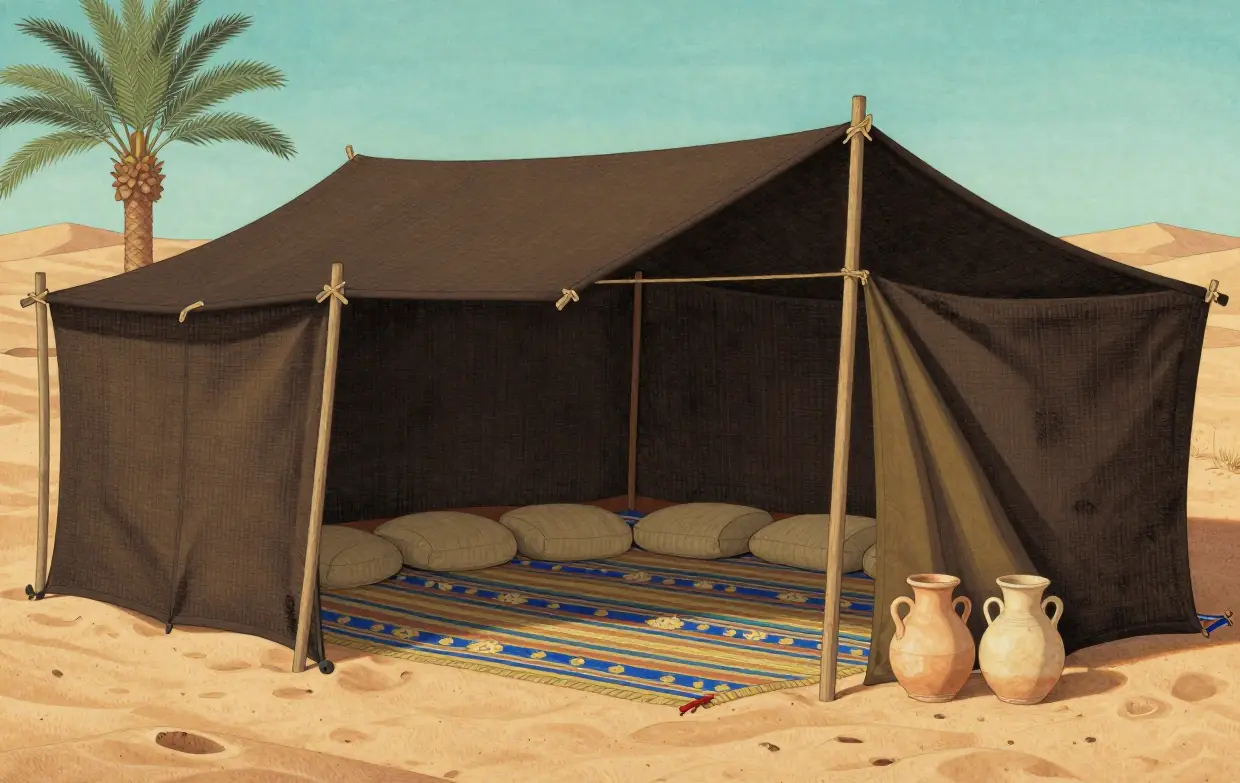
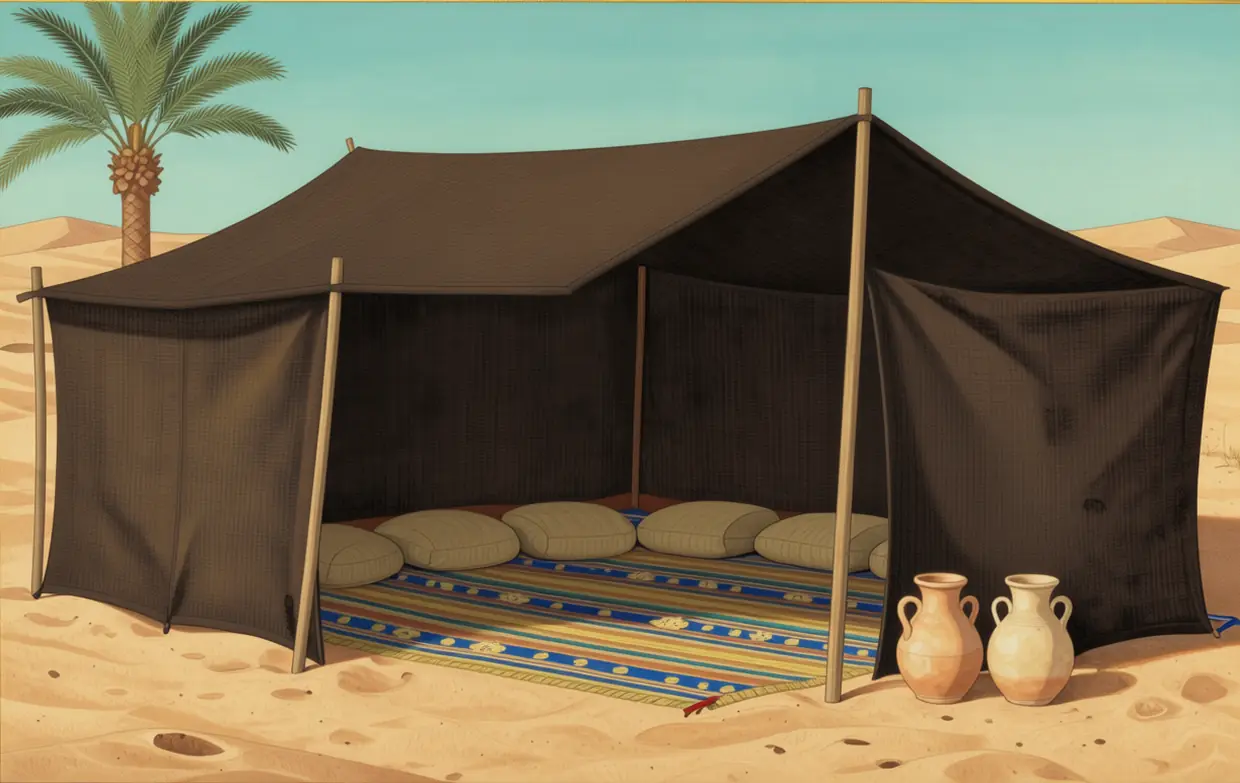
Ibrahim game: apply the scholar's gate 2-3 fixes (new tent plates, one-way time knob)
Both tent plates regenerated: the landscape tent as a recorded Qwen edit that removes
the rope crossing the inner pole; the portrait tent through a new seed and recorded
Qwen edits (plain roof, eave band and curtain; no pole above the band; no corner
writing). The time knob now only moves forward (drag, click and keys tested in EN
and AR), and 'never sets' reads 'never goes away'. Still not linked from the story:
the scholar re-checks the two new plates first.

diff --git a/UI/games/ibrahim/ibrahim.js b/UI/games/ibrahim/ibrahim.js
@@ -34,9 +34,9 @@ const LAYOUT = {
     arc: { rise: [150, 590], top: [620, 135], set: [1090, 590] },
     size: { star: 84, moon: 150, sun: 176 },
     sky: [40, 20, 1200, 520],
-    // plate-tent-land: the household curtain hangs at x 870-1010; the striped mat (the guests' place) is x 320-880,
+    // plate-tent-land (r3): the household hanging is the cloth wall right of the front pole, x 870-1200; the striped mat (the guests' place) is x 320-880,
     // y 540-690. In the tent the ribbon moves to the top (CSS), so the sand at the bottom is free for the dishes.
-    tent: { curtain: [940, 470, 150, 300], dishes: [[760, 778, 210], [520, 776, 170]], near: [600, 610, 290], far: [180, 742, 150], mat: [600, 600, 620, 180] }
+    tent: { curtain: [1000, 460, 170, 300], dishes: [[760, 778, 210], [520, 776, 170]], near: [600, 610, 290], far: [180, 742, 150], mat: [600, 600, 620, 180] }
   },
   port: {
     // phone, measured on plate-night-port (690 x 1278): the far dunes meet the sky at y ~ 950. The narration ribbon
@@ -46,8 +46,8 @@ const LAYOUT = {
     arc: { rise: [110, 965], top: [345, 440], set: [580, 965] },
     size: { star: 80, moon: 150, sun: 170 },
     sky: [40, 240, 650, 900],
-    // plate-tent-port: the household curtain hangs at x 500-640, y 590-1000; the mat is x 50-560, y 880-990
-    tent: { curtain: [548, 800, 110, 330], dishes: [[255, 1190, 200], [480, 1185, 170]], near: [300, 935, 240], far: [130, 1105, 130], mat: [300, 930, 480, 140] }
+    // plate-tent-port (r8): the household curtain hangs at x 465-640, y 600-1000; the mat is x 100-500, y 820-1000
+    tent: { curtain: [552, 800, 130, 330], dishes: [[230, 1190, 200], [450, 1185, 170]], near: [300, 930, 240], far: [515, 1125, 120], mat: [300, 915, 420, 160] }
   }
 };
 let MANIFEST = { aspects: {} };
@@ -94,10 +94,10 @@ const W = {
     ar: 'ها هي مرة أخرى: النجم والقمر والشمس. من خلقها؟ اسحب كل واحد منها إلى الإطار، أو المسه.' },
   placed: { star: { en: 'Allah made the star.', ar: 'الله خلق النجم.' }, moon: { en: 'Allah made the moon.', ar: 'الله خلق القمر.' }, sun: { en: 'Allah made the sun.', ar: 'الله خلق الشمس.' } },
   missFrame: { en: 'Bring it up into the frame.', ar: 'ضعه في الإطار في الأعلى.' },
-  frameDone: { en: 'Allah made them all. Only Allah, who never sets and never sleeps, deserves to be worshipped.',
+  frameDone: { en: 'Allah made them all. Only Allah, who never goes away and never sleeps, deserves to be worshipped.',
     ar: 'الله خلقها كلها. والله وحده، الذي لا يغيب ولا ينام، هو المستحق للعبادة.' },
   pause1Q: { en: 'The sun is so big and bright. Why can it not be our Lord?', ar: 'الشمس كبيرة جداً ومضيئة. لماذا لا يمكن أن تكون ربنا؟' },
-  pause1H: { en: 'Idea: it sets every evening; Allah made it, and Allah never sets or sleeps.', ar: 'فكرة: إنها تغيب كل مساء؛ الله خلقها، والله لا يغيب ولا ينام.' },
+  pause1H: { en: 'Idea: it sets every evening; Allah made it, and Allah never goes away and never sleeps.', ar: 'فكرة: إنها تغيب كل مساء؛ الله خلقها، والله لا يغيب ولا ينام.' },
   toTent: { en: "Next: Ibrahim's guests", ar: 'التالي: ضيوف إبراهيم' },
   tentIntro: { en: 'Ibrahim was known for welcoming guests generously. One day, guests came to his tent and greeted him with "Salam!", peace. How do we answer?',
     ar: 'عُرف إبراهيم بإكرام الضيوف. وفي يوم وصل ضيوف إلى خيمته وقالوا: "سلاماً!" كيف نردّ عليهم؟' },
@@ -421,12 +421,20 @@ bodyEl.addEventListener('click', () => {
   gesture(); S.tapped = true; bodyEl.classList.remove('call'); land(bodyEl); bodyEl.classList.add('lit');
   sfx('good'); Atmos.motes(arcAt(S.u), 4);
   const o = BODIES[S.body]; say(o.tapped);
-  const r = $('#time'); r.value = 0; r.disabled = false; timeLabels(); $('#timebar').hidden = false;
+  const r = $('#time'); r.value = 0; S.kmax = 0; r.disabled = false; timeLabels(); $('#timebar').hidden = false;
   setTimeout(() => r.focus({ preventScroll: true }), 120);
 });
-$('#time').addEventListener('input', e => { gesture(); scrub(+e.target.value / 100); });
+/* scholar gate 3 MUST 1: time only moves on. The knob never goes back below the furthest point reached, so the child can
+   never pull the sun or the moon back up (2:258: none but Allah brings the sun; no creature can bring it back from the
+   west). Any lower value (a drag back, Home, an arrow or Page key) is put straight back to the furthest point. */
+$('#time').addEventListener('input', e => {
+  gesture(); const v = +e.target.value;
+  if (v < (S.kmax || 0)) { e.target.value = S.kmax; return; }
+  S.kmax = v; scrub(v / 100);
+});
+$('#time').addEventListener('keydown', e => { if (['Home', 'PageDown'].includes(e.key) || (!rtl() && ['ArrowLeft', 'ArrowDown'].includes(e.key)) || (rtl() && ['ArrowRight', 'ArrowDown'].includes(e.key))) e.preventDefault(); });
 // letting go near the end finishes the setting (small hands rarely reach the very end of the line)
-$('#time').addEventListener('change', e => { if (+e.target.value >= 85 && !S.setting) { e.target.value = 100; scrub(1); } });
+$('#time').addEventListener('change', e => { if (+e.target.value < (S.kmax || 0)) e.target.value = S.kmax; if (+e.target.value >= 85 && !S.setting) { e.target.value = 100; S.kmax = 100; scrub(1); } });
 function scrub(k) {
   if (!S.body || S.setting) return;
   const o = BODIES[S.body];

diff --git a/UI/scripts/specs/games/ibrahim.py b/UI/scripts/specs/games/ibrahim.py
@@ -264,3 +264,63 @@ ASSETS["bread"].update(seed=seed("bread-r8"),
             "Change only the food: remove the roast and the rice completely. Now the platter holds only one small, "
             "irregular, dry heel of dark brown bread lying on its side near the middle, with a smooth plain crust and no "
             "cuts, marks or lines on it; the rest of the platter is empty and bare."))
+
+# ---------- scholar gate 2b (2026-11-07): both tent plates rejected ----------
+MOTIF_NEG = ("eye motif, evil eye, nazar, concentric lozenge, lozenge with a dot, diamond medallion, medallion, roof "
+             "ornament, crossbar on the pole, rail across the pole, frame rails, script, inscription, script-like marks, "
+             "border pattern, fringe, hem pattern, footprints, paired dents")
+# The approved source of the landscape edit: the r2 render (seed 126676) kept as an input only (never shipped).
+ASSETS["plate-tent-land-src126676"] = dict(kind="derived", w=1344, h=896,
+    prompt="(input only: the r2 tent render, seed 126676, whose rope crosses the inner back pole; see below)")
+# r3 (scholar 2b MUST 2): in seed 126676 the guy rope from the roof-corner knot runs THROUGH the inner back pole at about
+# x 635, y 275 and the pole rises ~8 px above it: a small cross. Regenerated as a recorded Qwen edit of that render that
+# removes the rope (the scholar allowed this in place of a new seed); everything else is kept.
+ASSETS["plate-tent-land"] = dict(kind="edit", w=1344, h=896, source="plate-tent-land-src126676", seed=seed("plate-tent-land-r3"),
+    neg_extra=NO_BODIES + ", " + TENT_NEG + ", " + MOTIF_NEG,
+    prompt=("Keep the exact same tent, palm, mat, cushions, clay pots, sand, sky, colours, style and gold border. Remove "
+            "every rope and cord stretched between the poles under the roof: no line crosses or touches any pole. Each "
+            "pole is one plain straight upright pole with nothing across it and nothing tied to it. Change nothing else."))
+# r5 (scholar 2b MUST 1): seed 1120183 had two stacked concentric blue lozenges on the roof, the upper with a round
+# "pupil" (the nazar / evil-eye form, 3b.2-3), an inner centre pole crossed by a frame rail and rising above it (3b.3),
+# and a column of script-like marks on the curtain band and a looped hem (3b.4). New seed, plain roof and curtain.
+ASSETS["plate-tent-port"].update(seed=seed("plate-tent-port-r5"),
+    neg_extra=NO_BODIES + ", " + TENT_NEG + ", " + MOTIF_NEG + ", rails, frame inside the tent, grid",
+    prompt=(TENT_TALL + ", the tent roof is plain dark woven cloth with no medallion, no diamond and no motif, the curtain "
+            "is plain undyed cloth with no border, no fringe and no pattern on its hem, the inside of the tent is lined "
+            "with plain dark cloth so no poles, frame or rails show inside, the front is held up by two plain straight "
+            "upright poles only, no ropes, the sand in front is smooth, clean and completely unmarked, "
+            "no writing in any corner"))
+# r6: the r5 render (seed 1400481) fixed the inside (no poles or rails) but again put a concentric diamond medallion on
+# the roof (3b.2), a band of small X marks along the eave (3b.3), a striped fringe on the curtain hem, and a pseudo-
+# signature in the bottom-right corner (3b.4). Z-Image ignores these negatives, so r6 is a recorded Qwen edit of that
+# render (as the scholar allowed for the landscape tent) that only takes the ornaments and the corner writing away.
+ASSETS["plate-tent-port-src1400481"] = dict(kind="derived", w=768, h=1408,
+    prompt="(input only: the r5 tent render, seed 1400481; rejected as it stands, see below)")
+ASSETS["plate-tent-port"] = dict(kind="edit", w=768, h=1408, source="plate-tent-port-src1400481", seed=seed("plate-tent-port-r6"),
+    neg_extra=NO_BODIES + ", " + TENT_NEG + ", " + MOTIF_NEG,
+    prompt=("Keep the exact same tent shape, poles, palm, cushions, striped floor mat, clay pots, sand, sky, colours, style "
+            "and gold border. Make the whole tent roof plain dark woven cloth: remove the diamond on the roof completely. "
+            "Make the band along the edge of the roof plain dark cloth with no pattern and no marks. Make the curtain plain "
+            "undyed cloth with no striped edge and no fringe. Remove the small writing in the bottom-right corner, so the "
+            "corner is plain sand. Change nothing else."))
+# r7: the r6 edit (seed 761115) is clean (plain roof, plain band, plain curtain, no writing), but at both front poles
+# the eave band crosses the pole and the pole top rises ~30 px above it (the Musa rule: the stem never rises above the
+# bar, 3b.3), and small white cord loops hang beside the poles (a glyph-like shape at play size, 3b.4 when in doubt).
+# r7 edits r6 once more: the poles end under the band, and the loops go.
+ASSETS["plate-tent-port-src761115"] = dict(kind="derived", w=768, h=1408,
+    prompt="(input only: the r6 edit, seed 761115; rejected as it stands, see below)")
+ASSETS["plate-tent-port"] = dict(kind="edit", w=768, h=1408, source="plate-tent-port-src761115", seed=seed("plate-tent-port-r7"),
+    neg_extra=NO_BODIES + ", " + TENT_NEG + ", " + MOTIF_NEG + ", pole above the band, pole tip, finial, hanging cords, loops",
+    prompt=("Keep the exact same picture: the tent, the plain roof, the plain turquoise band along the eave, the curtain, "
+            "the cushions, the floor mat, the clay pots, the palm, the sand, the sky, the colours, the style and the gold "
+            "border. Change only the two front poles: each pole now stops just under the turquoise band and does not rise "
+            "above it, and there are no cords, loops or ties hanging beside the poles. The two long guy ropes going down "
+            "to the sand at the sides stay. Change nothing else."))
+# r8: the r7 edit (seed 178573) washed the sky and the sand to flat cream and turned both front poles into columns of
+# blue chevrons and lozenges (3b.2-3 risk, and off-composition). Rejected. r8 edits r6 again with a single, narrow change.
+ASSETS["plate-tent-port"].update(seed=seed("plate-tent-port-r8"),
+    neg_extra=NO_BODIES + ", " + TENT_NEG + ", " + MOTIF_NEG + ", pole above the band, pole tip, finial, columns, pillars, chevrons, cream sky, blank background",
+    prompt=("Keep everything exactly as it is: the turquoise sky, the palm, the dark tent, the plain turquoise band, the "
+            "curtain, the cushions, the mat, the clay pots, the golden sand and the gold border. Make only one small change: "
+            "the two plain wooden front poles are a little shorter, so each pole ends at the lower edge of the turquoise "
+            "band and nothing of the pole shows above the band. The poles stay plain round wood."))

diff --git a/UI/scripts/specs/games/ibrahim_export.py b/UI/scripts/specs/games/ibrahim_export.py
@@ -94,6 +94,9 @@ def plates(raw: Path, out: Path, man: dict):
                 im = crop_plate(im, comp)
                 if st == "night":
                     night = im
+                if st == "tent":   # the tent edits redraw a blue-and-gold rule a little inside the found frame: trim it
+                    e = round(min(im.size) * 0.018)
+                    im = im.crop((e, e, im.width - e, im.height - e))
             tw = PLATE_W[comp]
             if comp in man["world"]:
                 tw, th = man["world"][comp]

diff --git a/claudeteam/reviews/game-ibrahim-stars.md b/claudeteam/reviews/game-ibrahim-stars.md
@@ -160,3 +160,191 @@ plate), `review-{tab,phone}-{en,ar}.png` (all stages), `kb-*.png`.
 2. The "Created by Allah" cartouche holds the star, the moon and the sun as tokens; it sits in the HUD, not the sky.
 3. The night that falls again at the end, with "Allah made them all, and Allah is always with us, hearing and seeing."
 4. The crust tray is the same platter with one dry crust (both dishes look alike except for the food).
+
+## Scholar gates 2-3 (2026-11)
+`islamic-content-scholar`, 2026-11-07, on `main` at e466bda. Read-only review; no game file was edited.
+
+**Summary.** Gate 1 is confirmed closed. 2a (prompts): **PASS**. 2b (images): **PASS WITH FIXES**, because both
+tent plates must be regenerated. 3 (build): **PASS WITH FIXES**, because the time knob must only go forward.
+**Linking: not yet.** Link it from the end of the Ibrahim story once the three MUST fixes below are applied and I have
+re-checked the two new tent plates in context. The page is reachable by URL but linked from nowhere, so it does not
+need to be taken down in the meantime.
+
+### Gate 1: confirmed (all rulings hold in the painted build)
+- **Factual questions only.** Every question asks "Did it stay with us all the time?" with "No, it went away" / "Yes, it
+  stayed" (`UI/games/ibrahim/ibrahim.js:64-65, 74-75, 84-85`). No option says a star, the moon or the sun is a Lord. The
+  "Yes" answer replays the setting (`ibrahim.js:464-470`). The reasoning is narration only (`:67, :77`).
+- **Ibrahim is teaching his people.** "Prophet Ibrahim wanted to teach his people who the true Lord is" (`:58`),
+  "Ibrahim showed his people: something that goes away cannot be our Lord" (`:67`), "Ibrahim was showing his people"
+  (`:77`). The words "this is my lord" / «هذا ربي» appear nowhere in the strings: grep finds them only in code comments,
+  and the only «ربي» hit is inside «عربي».
+- **No faces on the sky bodies.** The sun and moon sprites are plain discs (checked at 100% on light and dark grounds).
+  The star is a DOM glow with no rays and no ring.
+- **The guests follow 51:25-27 and 11:69 only:** peace answered with peace (`:102-105`), «فراغ إلى أهله» as "went quickly and
+  quietly to his household" (`:106`), "a fat, roasted calf" (`:110`, عجل سمين / حنيذ), brought near (`:113`), "Please,
+  won't you eat?" (`:116`).
+- **The angels line for the grown-up** is present (`:121-122`). The food is never shown eaten: the tray stays whole and is
+  hidden at nightfall (`:606`).
+- **No water step** in the story. Water appears only in the parent-pause idea for *our own* guests (`:124`), which gate 1
+  allowed.
+- **Omitted as ruled:** idols, fire and the Ka'bah are not drawn. The Ka'bah appears only in words, in the dua's kicker
+  copied from the story page.
+
+### Re-checks (my own measurements)
+- **Dua 2:127, its meaning and its note:** byte-identical to `UI/story-prophet-ibrahim.html:307-309` (Python substring
+  check on the Arabic, the EN and AR meaning lines, and the EN and AR kicker). Against `api.alquran.cloud`
+  `2:127/quran-simple`, the normalised letters «ربنا تقبل منا انك انت السميع العليم» are an exact run of the ayah. The
+  diacritised text differs in only two places: no sukun on «أَنتَ» and no waqf sign ۖ. That is the site's convention
+  on the story page, not an error.
+- **The two page sentences** (`IBR_SHOWED`, `IBR_DECLARE`, EN and AR) are byte-identical to
+  `story-prophet-ibrahim.html:173` and `:164` (`ibrahim-stars.html:113`).
+- **No recitation.** I ran `verify-no-recitation.py --transcripts` on 228 strings extracted from `ibrahim.js` and
+  `ibrahim-stars.html` plus the six Whisper transcripts. It flagged one line, the on-screen dua itself (2:127), which is
+  displayed and never voiced. The game has no `speechSynthesis` or `speak(` call, and its only audio is
+  `slide-{1,2,3}.mp3` (`:136-138, :218`). Slides 6 and 9 are never used.
+- **The three narration cuts fall inside pauses.** I ran ffmpeg silencedetect (-35 dB, 0.15 s) on the shipped mp3s:
+
+  | Clip | Cut (s) | Pause the edge falls in (s) |
+  |---|---|---|
+  | EN slide 1 | 0-3.60 | end in 3.29-4.03 |
+  | AR slide 1 | 0-3.63 | end in 3.51-3.76 |
+  | EN slide 2 | 9.50-14.45 | start in 9.23-9.78; end in 14.33-14.56 (file end) |
+  | AR slide 2 | 9.10-13.60 | start in 8.85-9.37; end in 13.48-13.77 (file end) |
+  | EN slide 3 | 9.85-16.80 | start in 9.57-10.15; end in 16.67-16.93 (file end) |
+  | AR slide 3 | 9.20-16.50 | start in 8.88-9.49; end in 16.38-16.65 (file end) |
+
+  Re-cutting the shipped mp3s at these times reproduces the Whisper clips sample for sample (correlation 1.000, lag 0).
+  The cut edges read -54 to -99 dBFS. The only exception is the head of slide 1, which is the start of the file. Whisper
+  heard only the intended sentence each time. "Is this my lord?" (EN slide 1 about 7-8 s), "This is my lord!"
+  (slide 2 about 3-4 s) and "This is my lord - it's the biggest!" (slide 3 about 1.5-3 s) all lie outside every cut.
+- **Sounds off is silent.** In `audio-trace.json`: sound on reads -43 to -46 dBFS. 0.3 s after Sounds off it reads -67/-79
+  (inside the 0.25 s ramp), and the context is already `suspended`. From 1 to 7 s after, all twelve readings are -inf with
+  the context `suspended`. In a quiet moment with the wind at 0 and the context `running`, all twelve readings are
+  -inf. Code: the master ramps to 0 and the context is suspended (`ibrahim.js:192-196`), and the Sounds-off click also stops
+  Baba's clip (`:654`), which plays outside the Web Audio master.
+
+### 2a, prompts: PASS
+`UI/scripts/specs/games/ibrahim.py` and `game-ibrahim-art.md` meet every item of 3a:
+- Things only: desert, houses, tent, mat, cushions, pots, platter, bread, and the sun disc.
+- No light is written as divine.
+- `STYLE`/`NEGATIVE` are imported unchanged, with the full 3a.3 game list.
+- The Ibrahim bans are in every negative: guests, place settings, idols, statues, ziggurat, altar, fire, axe, and face
+  and eyes for every asset.
+- No Ka'bah, mushaf or text is prompted.
+- Every prompt, seed and reroll is recorded.
+
+The rerolls for the tents should add the motif bans listed under 2b.
+
+### 2b, images: PASS WITH FIXES (10 of 12 approved, 2 to regenerate)
+Approved: `plate-{night,morning,evening}-{land,port}`, `sun`, `moon`, `platter`, `bread`. In the town houses, every
+doorway is plain light with no figure; I zoomed the night-port arched doorway to check. The skies contain only dot stars.
+
+1. **MUST: regenerate `plate-tent-port` (seed 1120183).**
+   - (a) The roof carries two stacked concentric blue lozenges (around x 345, y 490-600). The upper one has a round
+     turquoise "pupil" in a pale centre. That is the blue nazar / evil-eye form (3b.2, 3b.3), the same reading as the
+     rejected bread 471110 ("blue almond with a dot"). On the phone it sits at the centre of every guest frame.
+   - (b) The tent's inner centre pole (x around 346) is crossed by a frame rail at y around 686 and rises about 50 px above
+     it to the hem: a cross (3b.3). This is the failure that rejected 1034882, and it is visible at phone size
+     (`shots/phone-en-08-tent-greet.png`, around x 195, y 440).
+   - (c) The vertical band at the curtain's edge (x 615-640, y 640-960) is a column of small script-like marks, and the
+     hem has a row of looped strokes (3b.4, when in doubt).
+   - Add to the reroll prompt: plain roof with no medallion, diamond or motif; plain curtain with no border, fringe or hem
+     pattern; no frame or rails visible inside. Keep the sand plain. Some of the current dents in front of the tent pair
+     up.
+2. **MUST: regenerate `plate-tent-land` (seed 126676).**
+   - The rope that runs from the roof-corner knot (x around 567, y 298) to the front pole passes *through* the inner back
+     pole (x around 635, y around 275). That pole rises about 8 px above the rope, and the rope continues about 40 px to
+     its left: a small Latin cross at 100% (zoom: around x 600-660, y 260-300). It is low-contrast at tablet size, but
+     it fails the Musa standard ("the stem never rises above the bar") and repeats the reject 1358775 (a crossbar at the
+     top of a pole).
+   - A recorded Qwen edit that removes the rope and keeps the poles plain is acceptable in place of a new seed, as was
+     done for the bread. Either way it is a new render, not a retouch.
+3. **Designer Q1, the front pole:** the rope ending at the tall front pole, with the pole rising above it, is a side bar
+   (⊣), not a cross. Acceptable. The X-wrapped lashings at the pole tops are ordinary knots and also acceptable. The
+   problem is the inner pole (item 2).
+4. **Designer Q2, sand dents:** acceptable in `plate-tent-land`. The hollows are single and irregular, with no pairs and
+   no sole shapes. The portrait plate is being redone anyway.
+5. **Designer Q3, platter rim lozenges:** acceptable. They are a repeated band of small lozenges, i.e. ornament, as
+   approved on Nuh's cloths. This is the difference from item 1(a), which is one large concentric blue lozenge with a
+   round pupil at the centre of the scene.
+6. **Designer Q4, the derived moon:** approved. A plain, featureless ivory disc in the same hand as the sun is better than
+   either rejected render. No SVG is needed.
+7. Note (no fix): the roast reads as a generic whole roast rather than obviously a calf. The label "A fat, roasted calf"
+   carries the meaning, and nothing on the platter is wrong.
+
+Sign-off line: `Art gate: prompts reviewed 2026-11-07 (scholar); contact sheet reviewed 2026-11-07 (scholar) - 10
+sprites approved, 2 rejected (plate-tent-port, plate-tent-land) to regenerate and re-review.`
+
+### 3, build: PASS WITH FIXES
+1. **MUST: the time knob must only go forward** (designer Q1, re-judged in the painted build).
+   - `ibrahim.js:427-433` maps every `input` value straight to the body's position (`S.u = lerp(o.u0, 1, k)`). So
+     until the light has fully set, the child can drag the sun back up into the evening sky (and the sky plate back to
+     morning), or press Home to do the same.
+   - In this game of all games that matters. Ibrahim's own argument in 2:258 is «فإن الله يأتي بالشمس من المشرق فأت بها
+     من المغرب»: no creature can bring the sun back from the west.
+   - Watching time pass is acceptable, and I keep my approval of the slider from mockup 04: the knob is a clock, it is
+     away from the sun, and its labels and narration name the time ("let the day pass"). The child pulling the sun back
+     is not acceptable.
+   - Fix: clamp the knob so its value never decreases within a light (keep the highest value reached, and ignore lower
+     values, including Home). Then the knob can only let time move on.
+2. **SHOULD: "never sets" becomes "never goes away"** in EN `frameDone` (`:97`) and `pause1H` (`:100`). Negating
+   "sets" of Allah still describes Him in the terms of a sky body. "Never goes away" is the approved gate-1 wording and
+   matches 7:7 «وما كنا غائبين». The AR «لا يغيب» is right as it is.
+3. **Designer Q2, the "Created by Allah" panel:** approved. It sorts the three lights as creations, it sits in the HUD
+   and not in the sky, and «خلقها الله» / "Allah made the star." (`:95`) is sound. Nothing is placed on a floor or shown as
+   honoured.
+4. **Designer Q3, the closing night line** (`:125-126`): approved. "Allah is always with us, hearing and seeing" follows
+   20:46 «إنني معكما أسمع وأرى» and avoids "everywhere".
+5. **Designer Q4, the crust on the same platter:** approved. The two dishes differ only in the food, which is the lesson.
+   A wobble on bread is fine; the no-wobble rule is for sacred things only.
+6. Checked and approved:
+   - Adab: "Prophet Ibrahim" / «النبي إبراهيم عليه السلام» at first mention (`:58-59`).
+   - The wrong options ("Who are you? Go away.", "Eat it now!") are what *we* might say, never attributed to Ibrahim,
+     and each is corrected with what he did.
+   - «ألا تأكلون» in the invitation chip is a short spoken phrase, not presented as an ayah and never voiced.
+   - The angels line matches 11:69 «بالبشرى» and 51:28.
+   - The eight beads mark progress, not deeds.
+   - There is no music: the chimes are 659/988 and 523/784 Hz.
+   - The shamsa is the one approved on Nuh.
+
+### Linking verdict
+**Do not link yet.** Link it from the end of `story-prophet-ibrahim.html` when all of these are done:
+1. Both tent plates are regenerated (2b items 1-2), and I have re-checked the new plates at 100% and in context at both
+   sizes and mirrored.
+2. The one-way knob is applied (3.1). The designer can verify it; I will confirm from the diff.
+3. The "never sets" wording is changed (3.2). This one is a SHOULD and does not block linking.
+
+## Fixes after gates 2-3
+`kids-game-designer`, 2026-11-07, on top of e466bda.
+
+| Item | Fix |
+|---|---|
+| 2b MUST 1: `plate-tent-port` (1120183): nazar-like lozenge, rail across the inner pole, script-like marks | Regenerated. A new Z-Image seed with the motif bans added (r5, 1400481) still painted a roof medallion, a band of X marks and a corner signature, so the shipped plate is a recorded chain of Qwen edits of r5: r6 (761115) removed the ornaments and the writing; r7 (178573) was rejected (flat cream sky, chevron columns); **r8 (615708) is shipped**. The roof is plain, the eave band is plain turquoise, the curtain is plain, and no pole shows above or across the band (the r6 poles rose ~30 px above the band, so r8 takes them away). Inside there is no frame or rail. The sand has single, irregular dents only. Every input, prompt and seed is in `ibrahim.py`; the record is in `game-ibrahim-art.md`. |
+| 2b MUST 2: `plate-tent-land` (126676): rope through the inner back pole | Regenerated as a recorded Qwen edit of 126676 (**310210**, shipped): every rope under the roof is gone, and each pole is a plain upright with nothing across it. The front poles still meet the sloping roof cloth (the side-bar case accepted in 2b Q1). The household hanging is now the dark cloth wall right of the front pole; the hotspot moved onto it. The export trims the thin rule the edit drew inside the frame. |
+| 3 MUST 1: the time knob only goes forward | `ibrahim.js`: the knob keeps the furthest value reached in the current light (`S.kmax`). Any lower value from a drag back, a click near the start, Home, PageDown or a backwards arrow is put straight back to it, and Home, PageDown and the backwards arrows (Left/Down in EN, Right/Down in AR) are ignored. It is still a native range input with its label and `aria-valuetext`. |
+| 3 SHOULD 2: "never sets" | EN `frameDone` and `pause1H` now say "never goes away" ("Only Allah, who never goes away and never sleeps, deserves to be worshipped."; "...and Allah never goes away and never sleeps."). The AR «لا يغيب» is unchanged. |
+| Layout | The tent hotspots and places were re-measured on both new plates; on the phone the far corner moved to the end side so it never sits under the tray. |
+
+**Proof that the knob cannot go backwards** (`fixes/knob-test.json`, headless, EN and AR at 1180x820): drag forward to
+60% (value 60, the star's arc position u 0.768), then drag back to 10% while still holding (value 60, u 0.768), release
+(60), then Home, Left, Down, PageDown (and Right in AR): every one leaves the value at 60 or 65 and u unchanged or
+higher; Up moves it forward (70); a click near the start of the track leaves it at 70. `never_backwards: true` in
+both languages (no step ever lowered the value or the position of the light).
+
+**Checks after the fixes:** rebuilt with `_src/build.py`; `node --check`. Play-throughs EN and AR, tablet and phone
+(motion on), and keyboard-only (tablet EN, phone AR): all complete, no console errors, no page scroll, no request
+outside localhost; the keyboard runs end on "Play together again". All six verifiers pass; the scripture diff passes;
+no "never sets" left. Art now 12 images, 358 KB.
+
+**Screenshots for the scholar's re-check** (`/private/tmp/claude-501/-Users-hishamabuella-Work-Interactive-Islamic-kids-website/e8e68c51-18d1-4a2c-bedb-40bde535d502/scratchpad/ibrahim-game/fixes/`):
+- The new tents in the guests round, tablet and phone, EN and AR (AR is the mirrored scene):
+  `{tab,phone}-{en,ar}-08-tent-greet.png`, `-09-curtain.png`, `-10-food.png`, `-11-carry.png`, `-12-invite.png`,
+  `-13-angels.png`, `-14-pause2.png`.
+- The rest of the round: `{tab,phone}-{en,ar}-01-start.png` ... `-16-end.png`; overview strips `review-{tab,phone}-{en,ar}.png`; `beside-*.png`.
+- The plates at full size: `UI/images/games/ibrahim/plate-tent-{land,port}.webp`, and the contact sheet
+  `claudeteam/reviews/game-ibrahim-contact-sheet.png`.
+- The knob test: `knob-test.json`.
+
+**Linking:** not done. The scholar's verdict makes the link conditional on his re-check of the two new tent plates at
+100% and in context. The link is ready to add as the same `.play-together` pattern on the final quiz card of
+`story-prophet-ibrahim.html` once he confirms.

diff --git a/claudeteam/reviews/game-ibrahim-art.md b/claudeteam/reviews/game-ibrahim-art.md
@@ -98,18 +98,18 @@ the Ka'bah, any text. The reward shamsa is the hand-drawn SVG approved on Nuh (s
   > Keep the exact same dunes, palms, far town, composition, palette, style and gold border. Change only the time of day: it is now calm evening just after sunset. The sky glows soft rose, apricot and violet near the horizon and deepens to dusky blue above, with a few faint first gold stars, and the doorways of the far houses glow warm. The sky stays open and empty: no sun disc, no moon, no people, no text. Keep the border exactly as it is now: one thin plain straight gold rule, with no ornament, no scrollwork, no curved corners and no arch., Ottoman and Persian manuscript illumination, flat gouache on cream parchment, Iznik turquoise and cobalt blue with manuscript gold leaf outlines, stylized geometric forms, fine gold rule border, warm and gentle, children's picture book, no people, no figures, no text
 
 ### `plate-tent-land`
-- Kind: plate. Model: `z_image_turbo_1.0_q8p.ckpt`. Render 1344x896, seed **126676**.
-- Extra negative for this asset: `moon, full moon, crescent, crescent moon, sun, sun disc, rising sun, setting sun, planet, comet, crossed sticks, crossed poles, crossbar, cross beam, stakes, pegs, x shape, footprints, tracks, holes in the sand, marks on the sand, rope ties across a pole`
+- Kind: edit; edits `plate-tent-land-src126676`. Model: `qwen_image_edit_2511_q8p.ckpt`. Render 1344x896, seed **310210**.
+- Extra negative for this asset: `moon, full moon, crescent, crescent moon, sun, sun disc, rising sun, setting sun, planet, comet, crossed sticks, crossed poles, crossbar, cross beam, stakes, pegs, x shape, footprints, tracks, holes in the sand, marks on the sand, rope ties across a pole, eye motif, evil eye, nazar, concentric lozenge, lozenge with a dot, diamond medallion, medallion, roof ornament, crossbar on the pole, rail across the pole, frame rails, script, inscription, script-like marks, border pattern, fringe, hem pattern, footprints, paired dents`
 - Prompt (exactly as sent):
 
-  > the open front of one large wide desert tent of dark brown woven goat-hair cloth held up by several straight upright wooden poles, a long flat sloping roof, seen from outside in soft daylight, the shaded inside is visible: a long low striped woven floor mat with a row of plain round cushions along the back wall, the mat is empty, at the right side of the tent a plain undyed cloth curtain hangs over the way to the inner part of the tent, two plain clay pots, pale smooth sand in front of the tent, a date palm and open desert behind under a calm pale turquoise sky, no food, no animals, every pole is one plain straight upright pole with nothing tied across it, no ropes, the sand is smooth and clean with no marks, no footprints and no holes, Ottoman and Persian manuscript illumination, flat gouache on cream parchment, Iznik turquoise and cobalt blue with manuscript gold leaf outlines, stylized geometric forms, fine gold rule border, warm and gentle, children's picture book, no people, no figures, no text
+  > Keep the exact same tent, palm, mat, cushions, clay pots, sand, sky, colours, style and gold border. Remove every rope and cord stretched between the poles under the roof: no line crosses or touches any pole. Each pole is one plain straight upright pole with nothing across it and nothing tied to it. Change nothing else., Ottoman and Persian manuscript illumination, flat gouache on cream parchment, Iznik turquoise and cobalt blue with manuscript gold leaf outlines, stylized geometric forms, fine gold rule border, warm and gentle, children's picture book, no people, no figures, no text
 
 ### `plate-tent-port`
-- Kind: plate. Model: `z_image_turbo_1.0_q8p.ckpt`. Render 768x1408, seed **1120183**.
-- Extra negative for this asset: `moon, full moon, crescent, crescent moon, sun, sun disc, rising sun, setting sun, planet, comet, crossed sticks, crossed poles, crossbar, cross beam, stakes, pegs, x shape, footprints, tracks, holes in the sand, marks on the sand, rope ties across a pole, rails, frame inside the tent, grid, footprint, prints`
+- Kind: edit; edits `plate-tent-port-src761115`. Model: `qwen_image_edit_2511_q8p.ckpt`. Render 768x1408, seed **615708**.
+- Extra negative for this asset: `moon, full moon, crescent, crescent moon, sun, sun disc, rising sun, setting sun, planet, comet, crossed sticks, crossed poles, crossbar, cross beam, stakes, pegs, x shape, footprints, tracks, holes in the sand, marks on the sand, rope ties across a pole, eye motif, evil eye, nazar, concentric lozenge, lozenge with a dot, diamond medallion, medallion, roof ornament, crossbar on the pole, rail across the pole, frame rails, script, inscription, script-like marks, border pattern, fringe, hem pattern, footprints, paired dents, pole above the band, pole tip, finial, columns, pillars, chevrons, cream sky, blank background`
 - Prompt (exactly as sent):
 
-  > a tall vertical view of the open front of one large desert tent of dark brown woven goat-hair cloth held up by straight upright wooden poles, seen from outside in soft daylight, a calm pale turquoise sky and a date palm above the tent roof, the shaded inside is visible: a low striped woven floor mat with a row of plain round cushions along the back wall, the mat is empty, at the right side a plain undyed cloth curtain hangs over the way to the inner part of the tent, two plain clay pots, a wide stretch of pale smooth sand in front of the tent fills the bottom third, no food, no animals, the inside of the tent is lined with plain dark cloth so no poles or rails show inside, the front is held up by two plain straight upright poles only, no ropes, the sand in front is smooth, clean and completely unmarked, the sand is one smooth even pale colour like a calm painted surface, with no dents, no pebbles, no dots and no writing in any corner, Ottoman and Persian manuscript illumination, flat gouache on cream parchment, Iznik turquoise and cobalt blue with manuscript gold leaf outlines, stylized geometric forms, fine gold rule border, warm and gentle, children's picture book, no people, no figures, no text
+  > Keep everything exactly as it is: the turquoise sky, the palm, the dark tent, the plain turquoise band, the curtain, the cushions, the mat, the clay pots, the golden sand and the gold border. Make only one small change: the two plain wooden front poles are a little shorter, so each pole ends at the lower edge of the turquoise band and nothing of the pole shows above the band. The poles stay plain round wood., Ottoman and Persian manuscript illumination, flat gouache on cream parchment, Iznik turquoise and cobalt blue with manuscript gold leaf outlines, stylized geometric forms, fine gold rule border, warm and gentle, children's picture book, no people, no figures, no text
 
 ### `moon`
 - Shipped as `moon.webp`, derived without a model in the export from the approved sun (seed 567194): its plain disc, recoloured. Two renders rejected (seeds 683121, 1128661), see the generation record.
@@ -138,6 +138,14 @@ the Ka'bah, any text. The reward shamsa is the hand-drawn SVG approved on Nuh (s
 ### `palm`
 - Not shipped: both desert plates already paint palms at their edges. Rendered once (seed 1815872); passes 3b.
 
+### `plate-tent-land-src126676`
+- Input only, not shipped: the r2 tent render, seed 126676, whose rope crosses the inner back pole; see below.
+
+### `plate-tent-port-src1400481`
+- Input only, not shipped: the r5 tent render, seed 1400481; rejected as it stands, see below.
+
+### `plate-tent-port-src761115`
+- Input only, not shipped: the r6 edit, seed 761115; rejected as it stands, see below.
 
 ## Generation record: rejected before review (all regenerated with a new seed, never retouched)
 
@@ -210,5 +218,20 @@ dry crust). The two dishes now differ only in what is on them, which is the less
 4. The moon is derived from the sun's disc by recolouring (no model). Acceptable as "the same hand", or should it be a
    hand-drawn SVG disc instead?
 
-Art gate: prompts reviewed (pending, scholar 2a); contact sheet reviewed (pending, scholar 2b) - 12 images shipped,
-18 rejected and regenerated before review (designer self-check).
+Art gate (first round): prompts reviewed 2026-11-07 (scholar, PASS); contact sheet reviewed 2026-11-07 (scholar) - 10
+approved, 2 rejected (plate-tent-port, plate-tent-land). See `game-ibrahim-stars.md`, "Scholar gates 2-3 (2026-11)".
+
+## After scholar gate 2b (2026-11-07): the two tent plates
+
+| Asset | Render | Result |
+|---|---|---|
+| `plate-tent-land` | 126676 (shipped in e466bda) | **rejected by the scholar**: the guy rope runs through the inner back pole at about x 635, y 275 and the pole rises ~8 px above it (a small cross) |
+| `plate-tent-land` | **310210**, Qwen edit of 126676 (`plate-tent-land-src126676`) | **shipped (r3)**: every rope under the roof removed; the inner back pole now meets the roof with nothing across it; the household curtain becomes the dark cloth wall right of the front pole. Checked at 4x: the front poles meet the sloping roof cloth (the side-bar case the scholar accepted), no knot X, no rope through any pole. The edit added a thin blue-and-gold rule inside the frame; the export trims 1.8% from each side of the tent plates |
+| `plate-tent-port` | 1120183 (shipped in e466bda) | **rejected by the scholar**: nazar-like concentric lozenge on the roof; inner centre pole crossed by a rail; script-like marks on the curtain band and hem |
+| `plate-tent-port` | 1400481, Z-Image r5 (motif bans added) | rejected: again a concentric diamond medallion on the roof, a band of small X marks along the eave, a striped curtain fringe, a pseudo-signature in the corner. Kept as the edit source (`plate-tent-port-src1400481`) |
+| `plate-tent-port` | 761115, Qwen edit of r5 (r6) | rejected: clean ornament, but at both front poles the eave band crosses the pole and the pole rises ~30 px above it (stem above the bar), and white cord loops hang beside the poles. Kept as the edit source (`plate-tent-port-src761115`) |
+| `plate-tent-port` | 178573, Qwen edit of r6 (r7) | rejected: the sky and sand went flat cream and both poles became columns of blue chevrons and lozenges |
+| `plate-tent-port` | **615708**, Qwen edit of r6 (r8) | **shipped**: plain roof, plain turquoise eave band, plain curtain, no poles at all above or across the band, cushions and mat as before, smooth sand with single irregular dents, no writing (the edit drew a blue rule border whose margin held a small mark; the frame crop and the 1.8% tent trim remove both; checked on the exported plate) |
+
+Shipped now: **12 images, 358 KB**. The two new tent plates are listed for the scholar's re-check at 100% and in
+context (tablet and phone, EN and AR, mirrored); see "Fixes after gates 2-3" in `game-ibrahim-stars.md`.
